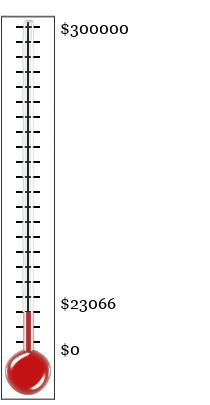
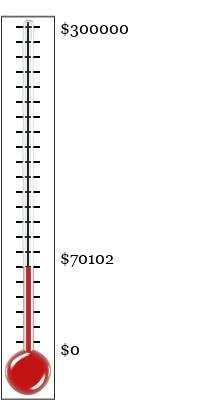
May 2021 update: Silver: Community;Bronze: Leo Radvinsky, Anonymous

Changed region(s): [[0.0857, 0.6519, 0.1714, 0.7704], [0.2857, 0.7111, 0.5714, 0.7704], [0.2857, 0.6222, 0.5429, 0.6519]]

diff --git a/contributors.html b/contributors.html
@@ -112,10 +112,15 @@ On request we will provide a link to your website for donations of
             <LI> Platinum: $50,000 to $100,000
                 <LI> Gold: $25,000 to $50,000
                     <LI> Silver: $10,000 to $25,000
+                        <UL>
+                            <LI><A HREF=donations.html>Total from smaller donors</A>
+                                </UL>
                         <LI> Bronze: $5,000 to $10,000
                             <UL>
                                 <LI><A HREF=http://www.genua.de>genua gmbh</A>
                                     <LI><A HREF=https://canary.tools>Thinkst Canary</A>
+                                        <LI>Leo Radvinsky
+                                            <LI>Anonymous
                              </Ul>
     </UL>
 <HR>
